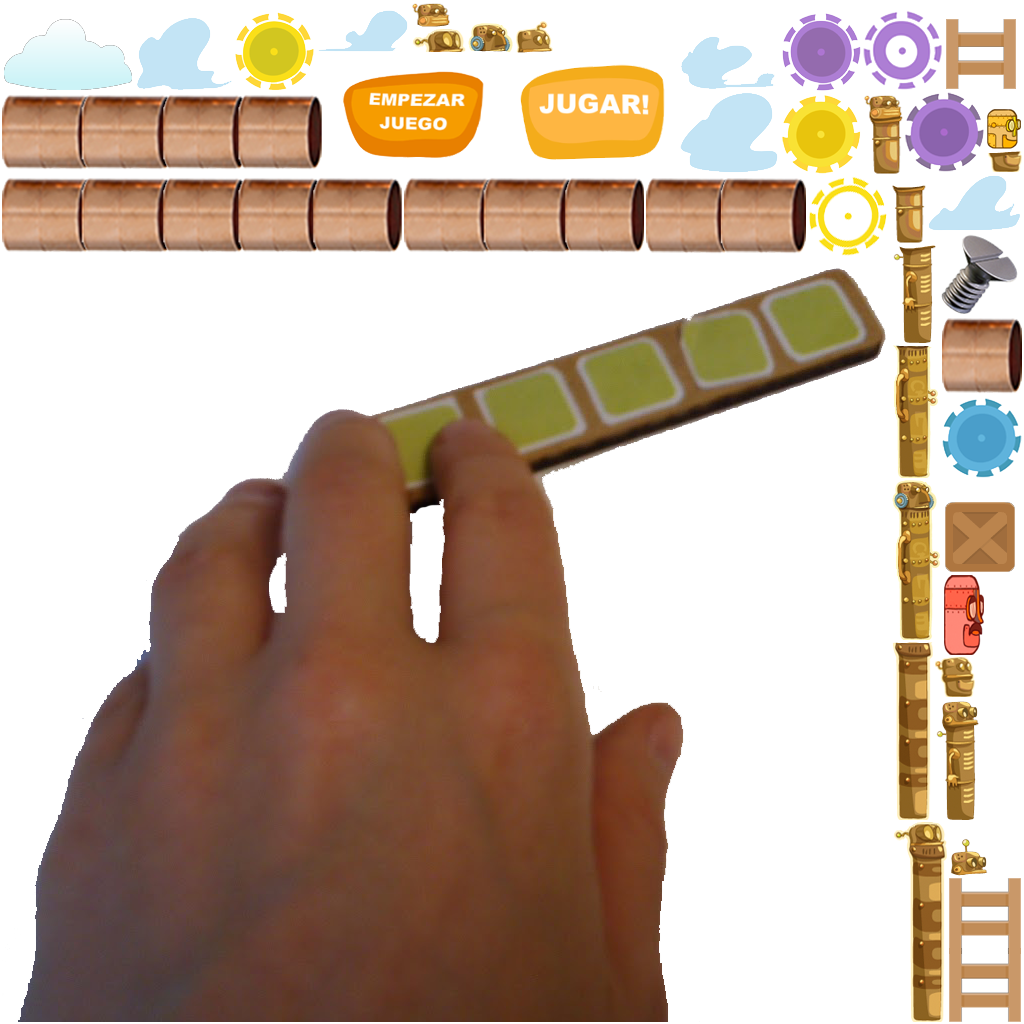
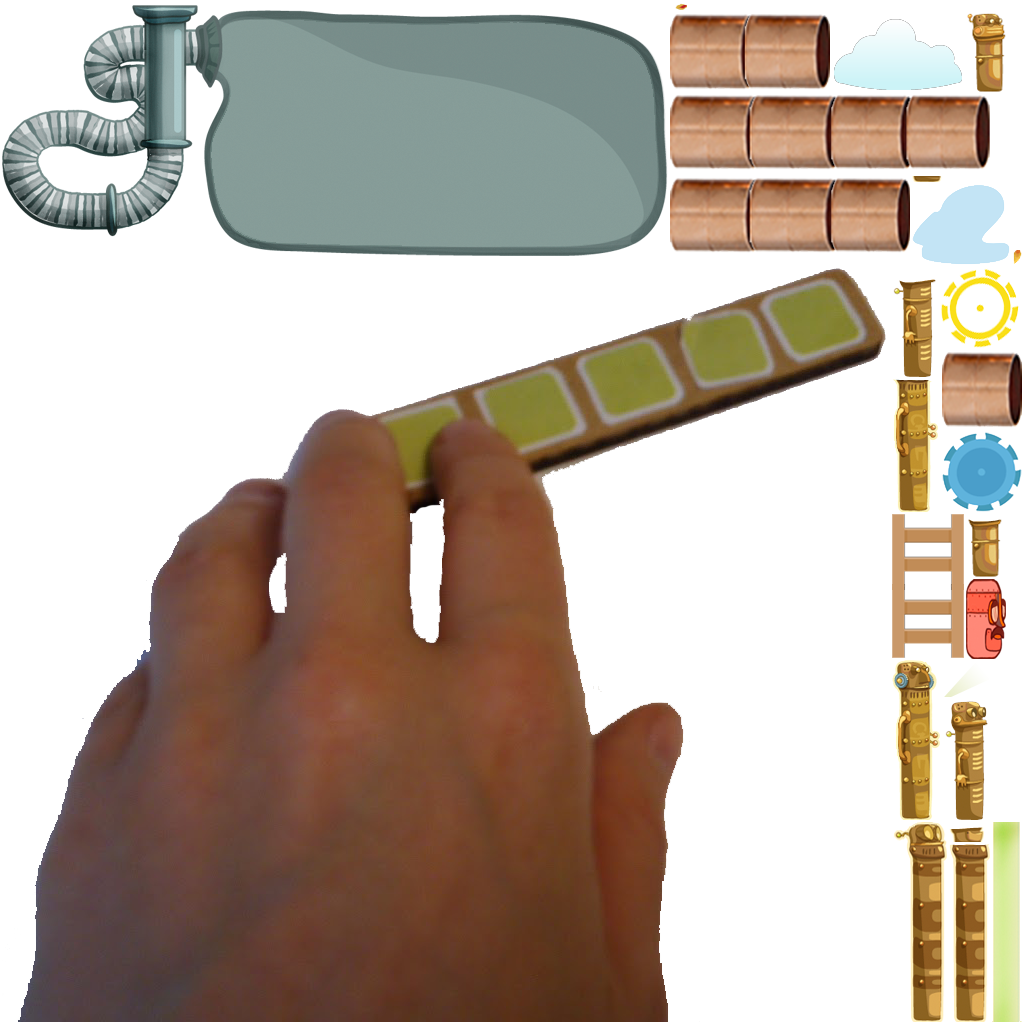
new assets

Changed region(s): [[0.0, 0.0, 1.0, 1.0]]

diff --git a/core/src/main/java/ceta/game/game/Assets.java b/core/src/main/java/ceta/game/game/Assets.java
@@ -172,6 +172,9 @@ public class Assets implements Disposable, AssetErrorListener {
         public final TextureAtlas.AtlasRegion body03;
         public final TextureAtlas.AtlasRegion body04;
         public final TextureAtlas.AtlasRegion body05;
+        public final TextureAtlas.AtlasRegion headEnergy;
+        public final TextureAtlas.AtlasRegion baseEnergy;
+        public final TextureAtlas.AtlasRegion energy;
 
         public AssetBruno (TextureAtlas atlas) {
             body = atlas.findRegion("robot02");
@@ -180,6 +183,9 @@ public class Assets implements Disposable, AssetErrorListener {
             body03 = atlas.findRegion("03bruno");
             body04 = atlas.findRegion("04bruno");
             body05 = atlas.findRegion("05bruno");
+            headEnergy = atlas.findRegion("03cabeza");
+            baseEnergy = atlas.findRegion("baseEnergia");
+            energy = atlas.findRegion("energia");
 
 
 

diff --git a/core/src/main/java/ceta/game/game/controllers/CvController.java b/core/src/main/java/ceta/game/game/controllers/CvController.java
@@ -1,0 +1,7 @@
+package ceta.game.game.controllers;
+
+/**
+ * Created by ewe on 12/2/16.
+ */
+public class CvController {
+}
